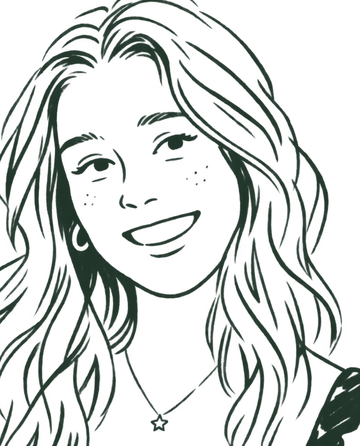
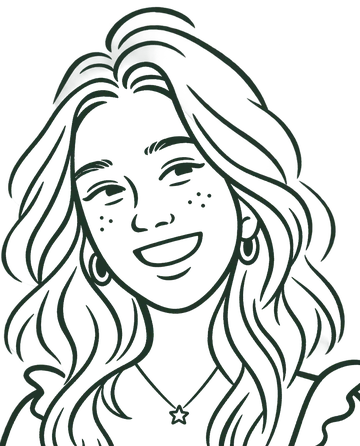
Landing: sharper Stella intro, professional signature line, new portrait
Claude-Session: https://claude.ai/code/session_01Hm2Cz1cRUBGhVgBwcQTbGQ

diff --git a/index.html b/index.html
@@ -160,7 +160,7 @@
         <p>I’ve always thought childhood was a magical time, full of curiosity, imagination, and little adventures worth cherishing, nurturing, and protecting. I loved that freedom as a child, and loved creating it for my own children.</p>
         <p class="quote">What really helps children thrive?</p>
         <p>That question led me to years of reading, exploring, collecting ideas, and trying things with my family. The Connected Child grew from those notes. I wanted to share what I’d learned so other families wouldn’t have to start from scratch, but could take these ideas, make them their own, and keep discovering.</p>
-        <p>I’m still the one holding the pen, but I didn’t make this alone. Stella joined me, and the journal is so much better for it. She’s a psychology graduate with a real passion for research on child development and early-life experiences, and she has hands-on experience leading groups of kids, so she knows exactly what makes them light up. She helped make the learning crisp, and the activities clever and playful.</p>
+        <p>I write these notes, but I didn’t make them alone. Stella, a psychology graduate focused on child development and early-life experiences, helped keep the learning clear and grounded in research. Her hands-on work with children’s groups made the activities sharper and more playful.</p>
         <p>Along the way, I came to believe that caring for our children also means caring for the living world and communities around them. We’re all part of the same ecosystem, shaping and being shaped by the world we live in.</p>
         <p>Our hope is simply to help make childhood a little richer, more playful, and full of wonder, for our children and the world they’ll grow up in.</p>
         <div class="sigs">
@@ -169,8 +169,8 @@
             <p><span class="sig-name">Helene</span><span class="sig-line">Mom of three, champion of muddy boots, big questions, and the wonders of childhood.</span></p>
           </div>
           <div class="sig">
-            <img src="img/stella.webp" width="360" height="446" alt="Line-drawn sketch of Stella smiling, with long wavy hair and a little star necklace.">
-            <p><span class="sig-name">Stella</span><span class="sig-line">Psychology graduate, kids’ group leader, and forever curious about how children grow.</span></p>
+            <img src="img/stella.webp" width="360" height="446" alt="Line-drawn sketch of Stella laughing, with long wavy hair, hoop earrings, and a little star necklace.">
+            <p><span class="sig-name">Stella</span><span class="sig-line">Psychology graduate focused on child development and early-life experiences. Research review and activity design.</span></p>
           </div>
         </div>
       </div>
